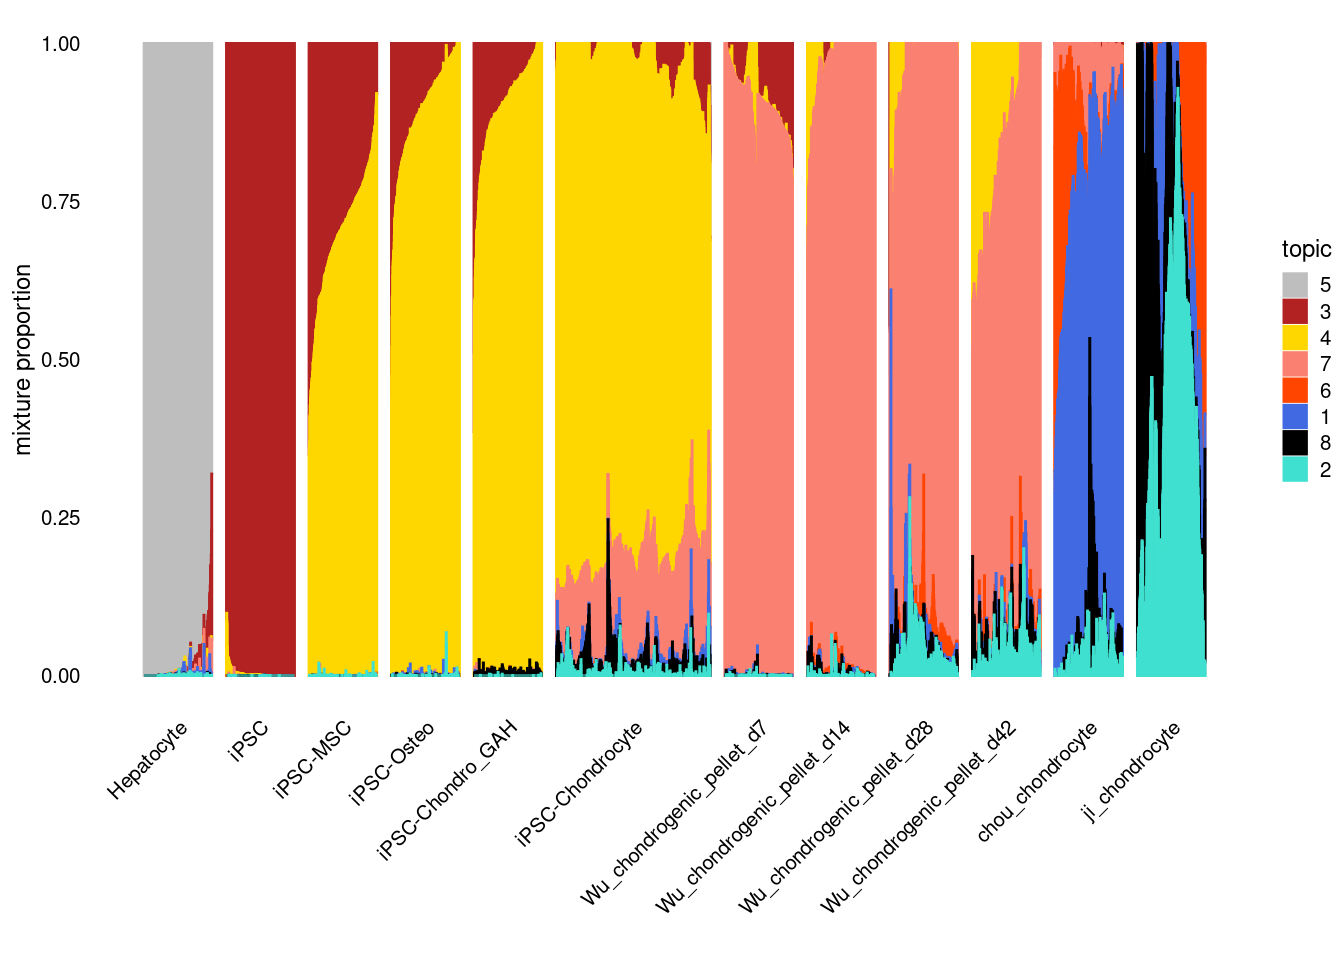
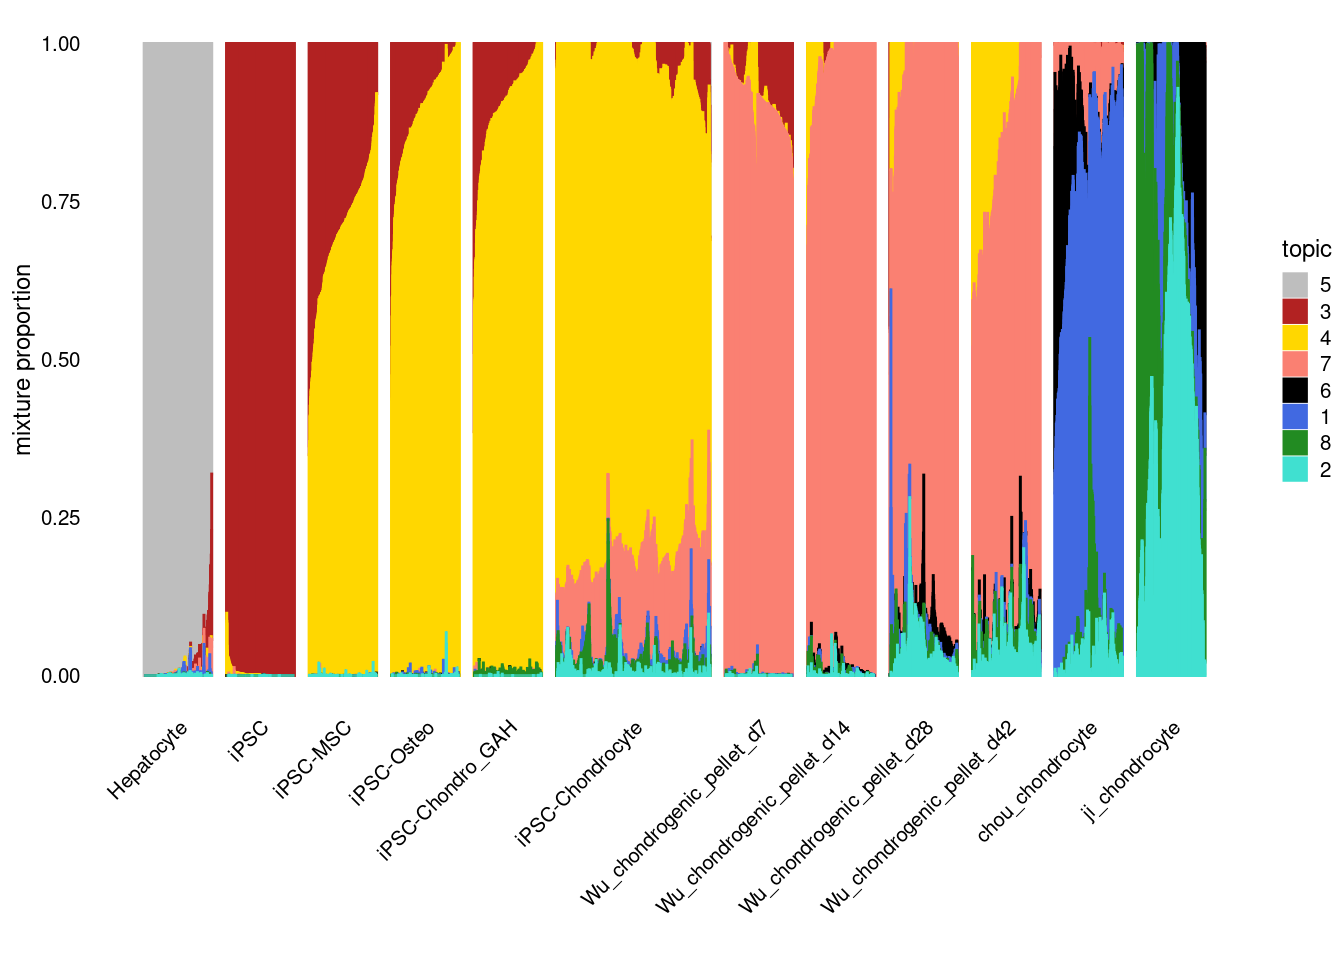
add new GH data

diff --git a/docs/topicModel_scRNA.html b/docs/topicModel_scRNA.html
@@ -1131,6 +1131,17 @@ Date
 <tbody>
 <tr>
 <td>
+<a href="https://github.com/anthonyhung/invitroOA_pilot_repository/blob/0d29d56e20049c3d9a4c2b53a22bf8b51178effd/docs/figure/topicModel_scRNA.Rmd/DE plots-1.png" target="_blank">0d29d56</a>
+</td>
+<td>
+Anthony Hung
+</td>
+<td>
+2021-02-18
+</td>
+</tr>
+<tr>
+<td>
 <a href="https://github.com/anthonyhung/invitroOA_pilot_repository/blob/62f071de6ff16020054a06baa06483b33fe39594/docs/figure/topicModel_scRNA.Rmd/DE plots-1.png" target="_blank">62f071d</a>
 </td>
 <td>
@@ -1242,6 +1253,17 @@ Date
 <tbody>
 <tr>
 <td>
+<a href="https://github.com/anthonyhung/invitroOA_pilot_repository/blob/0d29d56e20049c3d9a4c2b53a22bf8b51178effd/docs/figure/topicModel_scRNA.Rmd/fit topic model k6-1.png" target="_blank">0d29d56</a>
+</td>
+<td>
+Anthony Hung
+</td>
+<td>
+2021-02-18
+</td>
+</tr>
+<tr>
+<td>
 <a href="https://github.com/anthonyhung/invitroOA_pilot_repository/blob/62f071de6ff16020054a06baa06483b33fe39594/docs/figure/topicModel_scRNA.Rmd/fit topic model k6-1.png" target="_blank">62f071d</a>
 </td>
 <td>
@@ -1280,7 +1302,7 @@ sample &lt;- sample_labels %&gt;%
      dplyr::arrange(Cell.Type)
 
 set.seed(1)
-topic_colors &lt;- c(&quot;royalblue&quot;, &quot;turquoise&quot;,&quot;firebrick&quot;,&quot;gold&quot;,&quot;grey&quot;, &quot;orangered&quot;, &quot;salmon&quot;, &quot;black&quot;, &quot;forestgreen&quot;)
+topic_colors &lt;- c(&quot;royalblue&quot;, &quot;turquoise&quot;,&quot;firebrick&quot;,&quot;gold&quot;,&quot;grey&quot;, &quot;black&quot;, &quot;salmon&quot;, &quot;forestgreen&quot;)
 topics_order &lt;- c(5, 3, 4, 7, 6, 1, 8, 2)
 rows_keep &lt;- sort(c(sample(which(sample_labels$Cell.Type == &quot;Hepatocyte&quot;), 800),
                sample(which(sample_labels$Cell.Type == &quot;iPSC&quot;), 800),
@@ -1326,6 +1348,17 @@ Date
 </tr>
 </thead>
 <tbody>
+<tr>
+<td>
+<a href="https://github.com/anthonyhung/invitroOA_pilot_repository/blob/0d29d56e20049c3d9a4c2b53a22bf8b51178effd/docs/figure/topicModel_scRNA.Rmd/fit topic model k8-1.png" target="_blank">0d29d56</a>
+</td>
+<td>
+Anthony Hung
+</td>
+<td>
+2021-02-18
+</td>
+</tr>
 <tr>
 <td>
 <a href="https://github.com/anthonyhung/invitroOA_pilot_repository/blob/62f071de6ff16020054a06baa06483b33fe39594/docs/figure/topicModel_scRNA.Rmd/fit topic model k8-1.png" target="_blank">62f071d</a>
